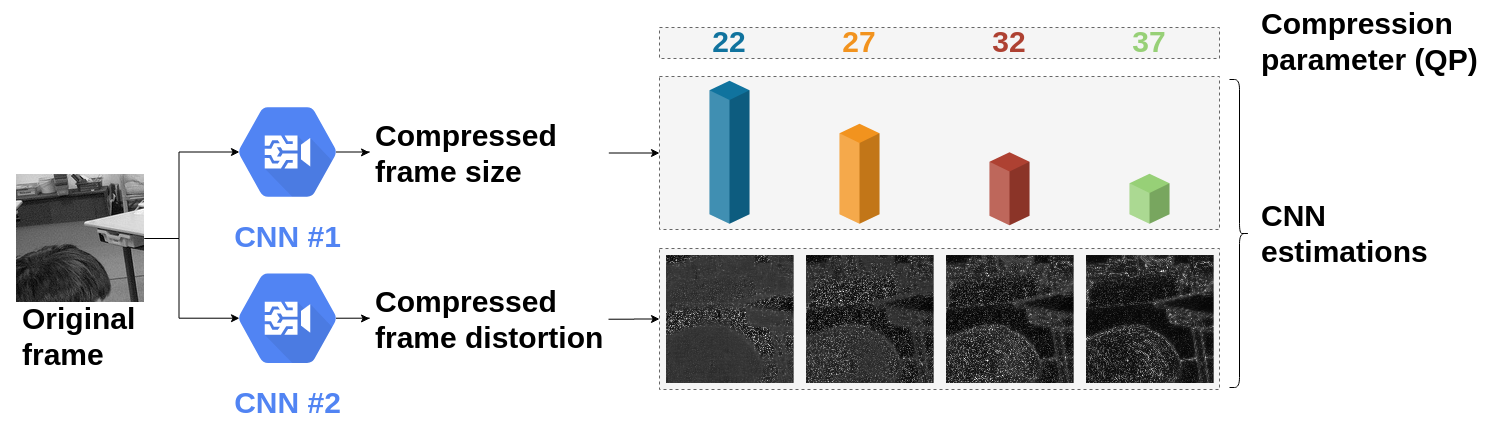
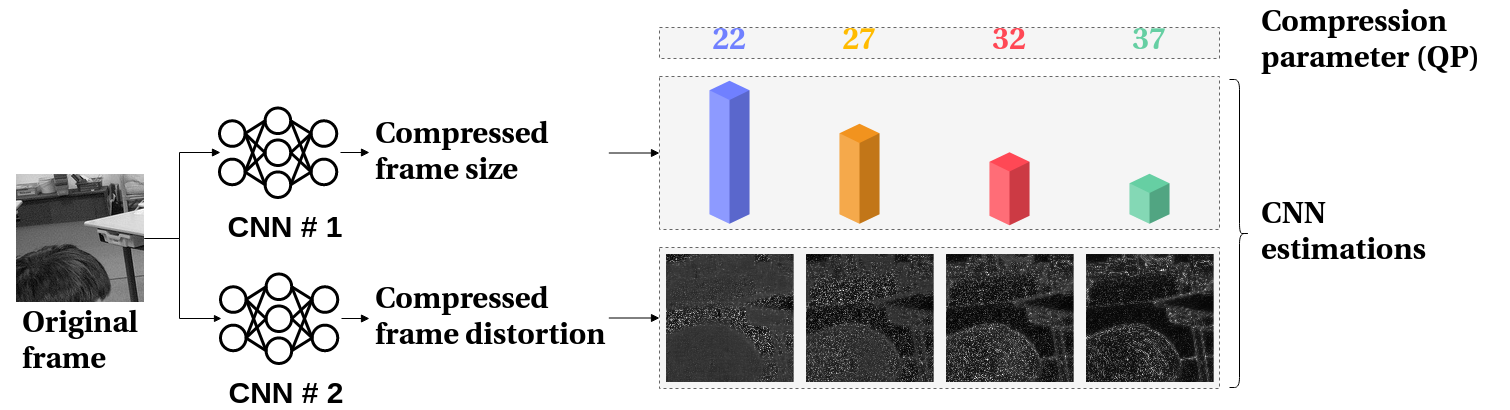
Updating approach image and readme

diff --git a/Readme.md b/Readme.md
@@ -119,11 +119,8 @@ python3 cnn-rate-distortion --task test --model_name [model name] --data_name [d
 ```
 
 ## Acknowledgements
-The work leading to this paper was co-supported by the [Engineering and 
-Physical Sciences Research Council](https://epsrc.ukri.org/) of the UK 
-through an [iCASE](https://epsrc.ukri.org/skills/students/industrial-case/intro/) 
-grant in cooperation with the [British Broadcasting Corporation](https://www.bbc.co.uk/rd).
-
+This work was co-supported by the  [Engineering and 
+Physical Sciences Research Council](https://epsrc.ukri.org/) of the UK, through an [iCASE](https://epsrc.ukri.org/skills/students/industrial-case/intro/) studentship in collaboration with the [School of Electronic Engineering and Computer Science](http://eecs.qmul.ac.uk/), [Queen Mary University of London]([qmul.ac.uk/](https://www.qmul.ac.uk/)).
 
 ## Contact
 If you have any general doubt about our work or code which may be of 
